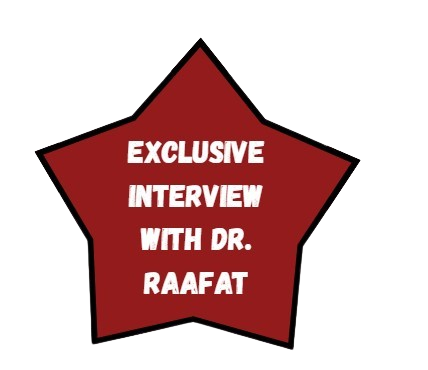
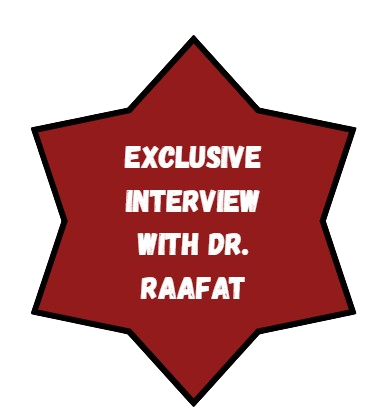
feat: Update homepage content, add new video link, and adjust image styles for better layout

diff --git a/index.html b/index.html
@@ -52,8 +52,8 @@
         <div class="hero-content">
             <img src="assets/images/logo1.png" alt="Logo" style="height:200px;margin-bottom:20px;">
             <h1>The Rising Times</h1>
-            <p>Celebrating Excellence at Rising Stars Language School</p>
-            <div style="display:flex;align-items:center;justify-content:center;"><div class="read-news-wrap"><a href="#articles" class="btn btn-primary">Read News</a><a href="https://youtu.be/VBsYzKxRdEA?si=A5tMzBfgJcRrWr9L" target="_blank" class="star-btn-hover dastar2-link"><img src="assets/images/dastar2.png" alt="Video" class="dastar2-img"></a></div></div>
+            <p>The Official Digital Magazine of Rising Stars Language School</p>
+            <div style="display:flex;align-items:center;justify-content:center;"><div class="read-news-wrap"><a href="#articles" class="btn btn-primary">Read News</a><div class="dastar-btns"><a href="https://youtu.be/qaCCTs0zPGw?si=G4261FN7PdCk16OC" target="_blank" class="star-btn-hover dastar3-link"><img src="assets/images/dastar3.png" alt="Video" class="dastar3-img"></a><a href="https://youtu.be/VBsYzKxRdEA?si=A5tMzBfgJcRrWr9L" target="_blank" class="star-btn-hover dastar2-link"><img src="assets/images/dastar2.png" alt="Video" class="dastar2-img"></a></div></div></div>
         </div>
     </section>
 

diff --git a/css/style.css b/css/style.css
@@ -331,16 +331,20 @@ body {
     transform: scale(1.05);
 }
 
-.dastar2-img { width: 130px; height: auto; display: block; }
+.dastar2-img { width: 115px; height: auto; display: block; }
 .read-news-wrap { display: flex; align-items: center; gap: 20px; }
 .dastar2-link { flex-shrink: 0; }
+.dastar3-img { width: 100px; height: auto; display: block; }
+.dastar3-link { flex-shrink: 0; }
 @media (min-width: 769px) { 
     .read-news-wrap { position: relative; justify-content: center; } 
-    .dastar2-link { position: absolute; left: calc(50% + 85px); } 
+    .dastar2-link { position: absolute; left: calc(50% + 85px); top: -35px; } 
+    .dastar3-link { position: absolute; right: calc(50% + 110px); top: -35px; }
 }
 @media (max-width: 768px) { 
-    .dastar2-img { width: 130px; } 
-    .read-news-wrap { flex-direction: column; gap: 12px; }
+    .dastar2-img { width: 105px; } 
+    .dastar3-img { width: 98px; }
+    .read-news-wrap { flex-direction: column; gap: 5px; }
 }
 
 .star-btn img {
